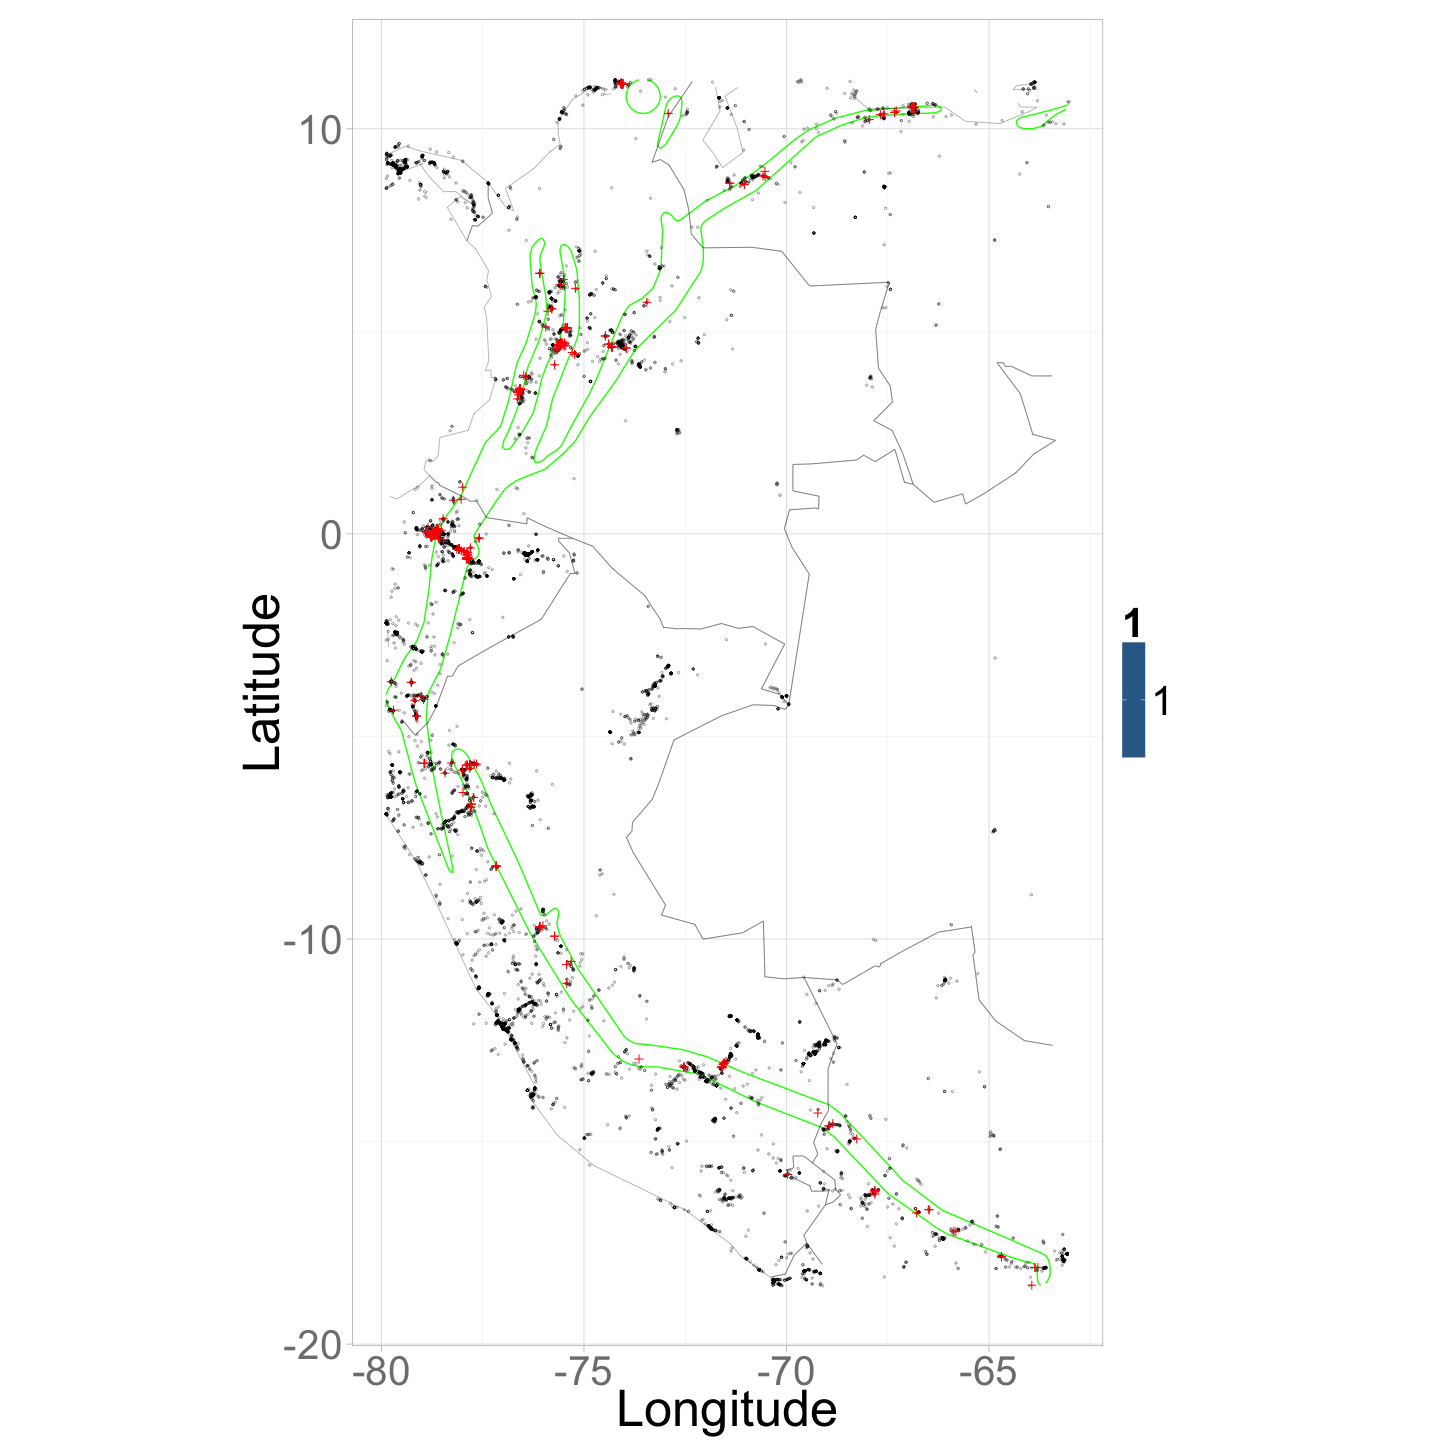
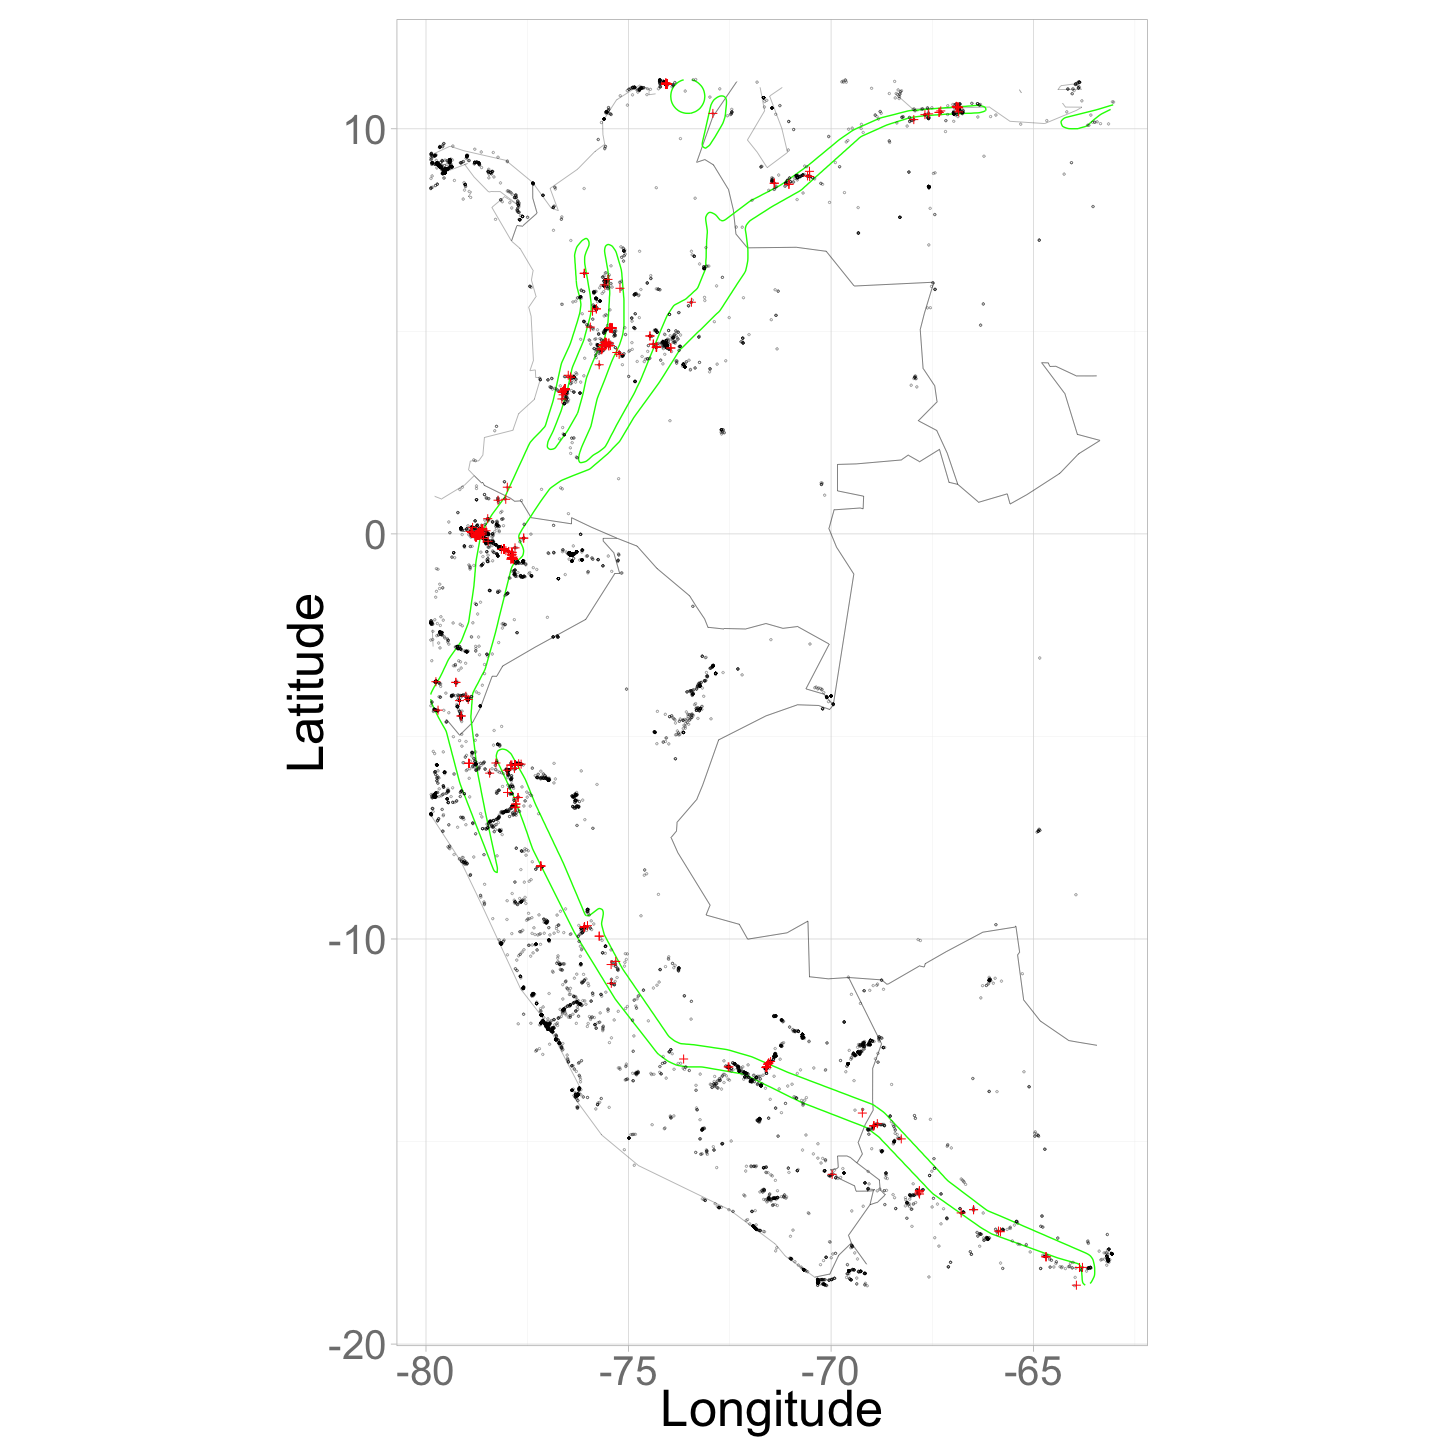
Add full region

diff --git a/R/hSDM_Tutorial.md b/R/hSDM_Tutorial.md
@@ -81,11 +81,15 @@ If you don't have the packages above, install them in the package manager or by 
 Example Species: *Montane Woodcreeper* (*Lepidocolaptes lacrymiger*)
 --------------------------------------------------------------------
 
-![Lepidocolaptes\_lacrymiger Photo](../assets/Lepidocolaptes_lacrymiger.jpg) <br><span style="color:grey; font-size:1em;">Figure from [hbw.com](http://www.hbw.com/species/montane-woodcreeper-lepidocolaptes-lacrymiger) </span>
+<img src="../assets/Lepidocolaptes_lacrymiger.jpg" alt="Lepidocolaptes_lacrymiger Photo" width="250px" />
+
+<br><span style="color:grey; font-size:1em;">Figure from [hbw.com](http://www.hbw.com/species/montane-woodcreeper-lepidocolaptes-lacrymiger) </span>
 
 > This species has a large range, occurring from the coastal cordillera of Venezuela along the Andes south to south-east Peru and central Bolivia. [birdlife.org](http://www.birdlife.org/datazone/speciesfactsheet.php?id=31946)
 
-![Lepidocolaptes\_lacrymiger Data](../assets/Lepidocolaptes_lacrymiger_range.png) <br><span style="color:grey; font-size:1em;">Data via [MOL.org](http://map.mol.org/maps/Lepidocolaptes%20lacrymiger) </span>
+<img src="../assets/Lepidocolaptes_lacrymiger_range.png" alt="Lepidocolaptes_lacrymiger Photo" width="200px" />
+
+<br><span style="color:grey; font-size:1em;">Data via [MOL.org](http://map.mol.org/maps/Lepidocolaptes%20lacrymiger) </span>
 
 Set species name:
 
@@ -241,6 +245,7 @@ spd@data[,c("lon","lat")]=coordinates(spd)
 coast <- map_data("world",
                   xlim=c(ereg@xmin-1,ereg@xmax+1),
                   ylim=c(ereg@ymin-1,ereg@ymax+1))
+
 ggcoast=geom_path(data=coast,
                   aes(x=long,y=lat,group = group),lwd=.1)
 ```
@@ -250,17 +255,17 @@ Available Species Data
 
 ``` {.r}
 ggplot(spd@data,aes(y=lat,x=lon))+
+  ggcoast+ 
   geom_path(data=fortify(reg),
             aes(y=lat,x=long,group=piece),
             col="green")+
   geom_point(data=filter(spd@data,presence==0),
-             aes(x=lon,y=lat,fill=1),pch=1,
+             aes(x=lon,y=lat),pch=1,
              col="black",cex=.8,lwd=2,alpha=.3)+
   geom_point(data=filter(spd@data,presence==1),
-             aes(x=lon,y=lat,fill=1),pch=3,
+             aes(x=lon,y=lat),pch=3,
              col="red",cex=2,lwd=3,alpha=1)+
-  ggcoast+ylab("Latitude")+xlab("Longitude")+
-  labs(col = "Species\nObserved")+
+  ylab("Latitude")+xlab("Longitude")+
   coord_equal()+
   xlim(c(min(spd$lon),max(spd$lon)))+
   ylim(c(min(spd$lat),max(spd$lat)))
@@ -293,11 +298,6 @@ if(!file.exists(fenvdata)) {
 
 URL <- paste0("https://www.dropbox.com/s/7i5hl3gv53l8m4v/",
            "Lepidocolaptes_lacrymiger_env_scaled_small.tif?dl=1")
-
-URL <- paste0("https://www.dropbox.com/s/lmthtpmzyyc4ghz/",
-              "Lepidocolaptes_lacrymiger_env_scaled.tif?dl=1")
-
-
 
 download.file(URL,
               destfile=fenvdata,
@@ -513,8 +513,8 @@ kable(pDetect,row.names=F)
 
 |modelname|gamma.hat|delta.est|
 |:--------|--------:|--------:|
-|Precipitation|-0.9410443|0.2806894|
-|Cloud|-0.9004692|0.2889541|
+|Precipitation|-0.9347880|0.2819543|
+|Cloud|-0.8972593|0.2896140|
 
 > How does this change if you add environmental covariates to the observability regression?
 
@@ -557,33 +557,19 @@ gplot(pred)+geom_raster(aes(fill=value)) +
 Additional Models in hSDM
 -------------------------
 
-### `*.icar`
+`*.icar` The `*.icar` functions in `hSDM` add *spatial effects* to the model as well, accounting for spatial autocorrelation of species occurrence.
 
-The `*.icar` functions in `hSDM` add *spatial effects* to the model as well, accounting for spatial autocorrelation of species occurrence.
+`hSDM.binomial` & `hSDM.binomial.iCAR` Simple and spatial binomial model (perfect detection).
 
-### `hSDM.binomial` & `hSDM.binomial.iCAR`
+`hSDM.ZIB` & `hSDM.ZIB.iCAR` & `hSDM.ZIB.iCAR.alteration` Zero-inflated Binomial (example we used today).
 
-Simple and spatial binomial model (perfect detection).
+`hSDM.ZIP` & `hSDM.ZIP.iCAR` & `hSDM.ZIP.iCAR.alteration` Zero-inflated Poisson (Abundance data with imperfect detection).
 
-### `hSDM.ZIB` & `hSDM.ZIB.iCAR` & `hSDM.ZIB.iCAR.alteration`
+`hSDM.siteocc` & `hSDM.siteocc.iCAR` Incorporates temporally varying environment to account for changing observation conditions.
 
-Zero-inflated Binomial (example we used today).
+`hSDM.poisson` & `hSDM.poisson.iCAR` Simple and spatial poisson model for species abundance (perfect detection).
 
-### `hSDM.ZIP` & `hSDM.ZIP.iCAR` & `hSDM.ZIP.iCAR.alteration`
-
-Zero-inflated Poisson (Abundance data with imperfect detection).
-
-### `hSDM.siteocc` & `hSDM.siteocc.iCAR`
-
-Incorporates temporally varying environment to account for changing observation conditions.
-
-### `hSDM.poisson` & `hSDM.poisson.iCAR`
-
-Simple and spatial poisson model for species abundance (perfect detection).
-
-### `hSDM.Nmixture` & `hSDM.Nmixture.iCAR`
-
-Poisson model for abundance with imperfect detection.
+`hSDM.Nmixture` & `hSDM.Nmixture.iCAR` Poisson model for abundance with imperfect detection.
 
 Looking forward
 ---------------
